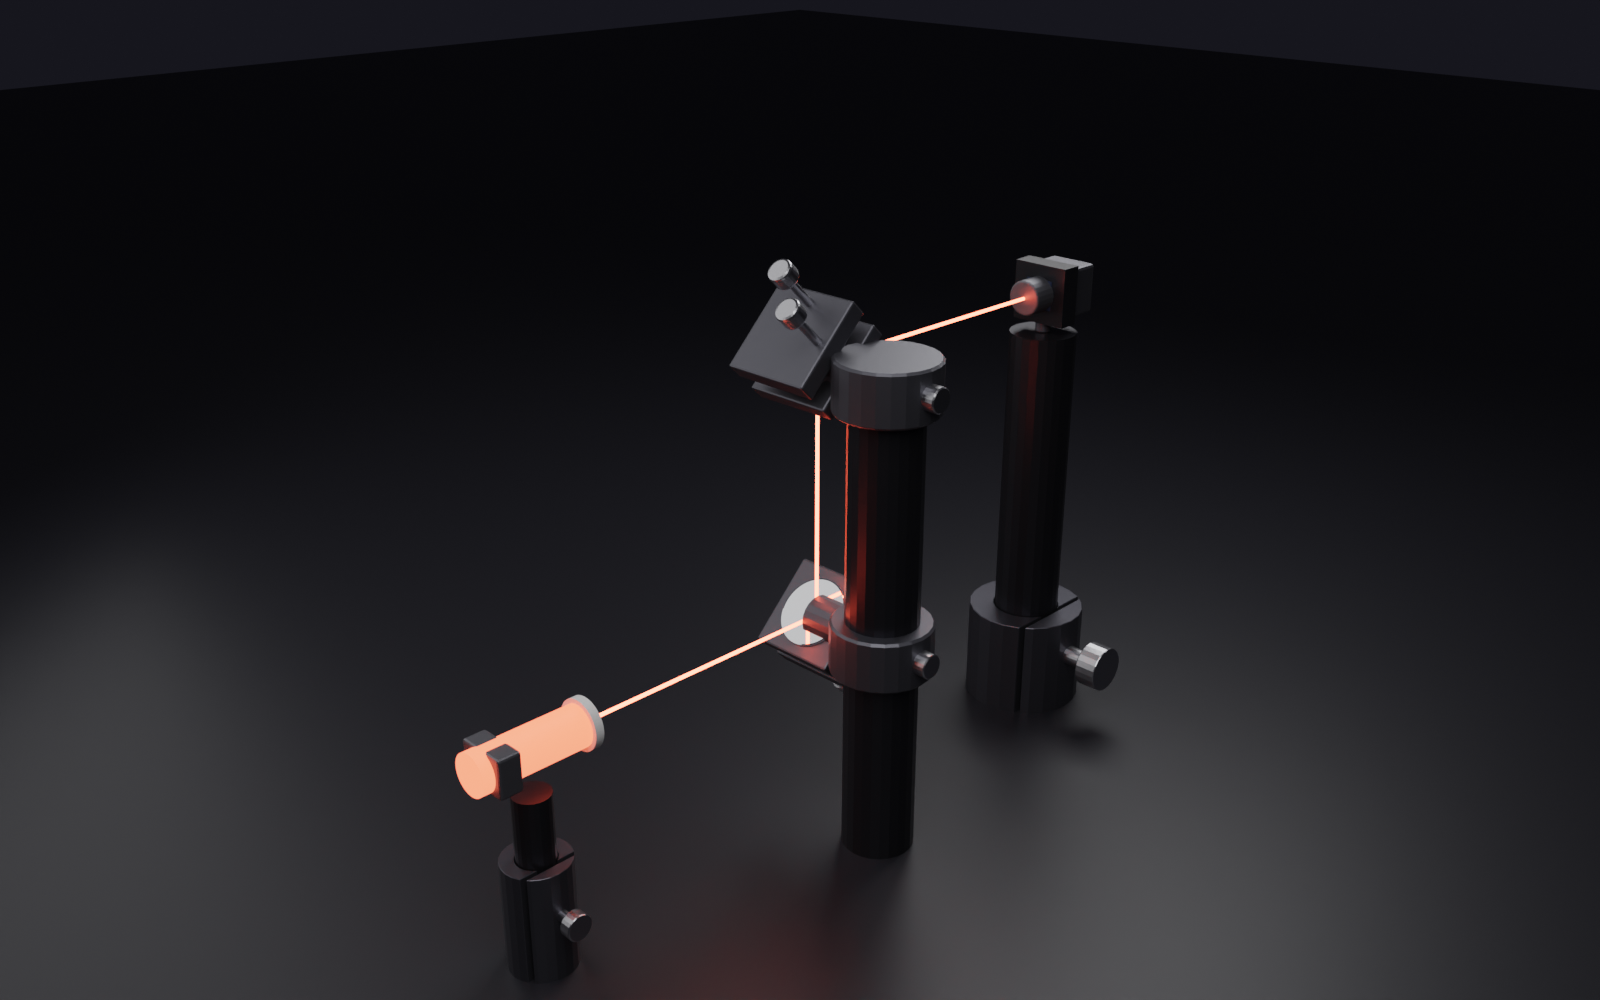
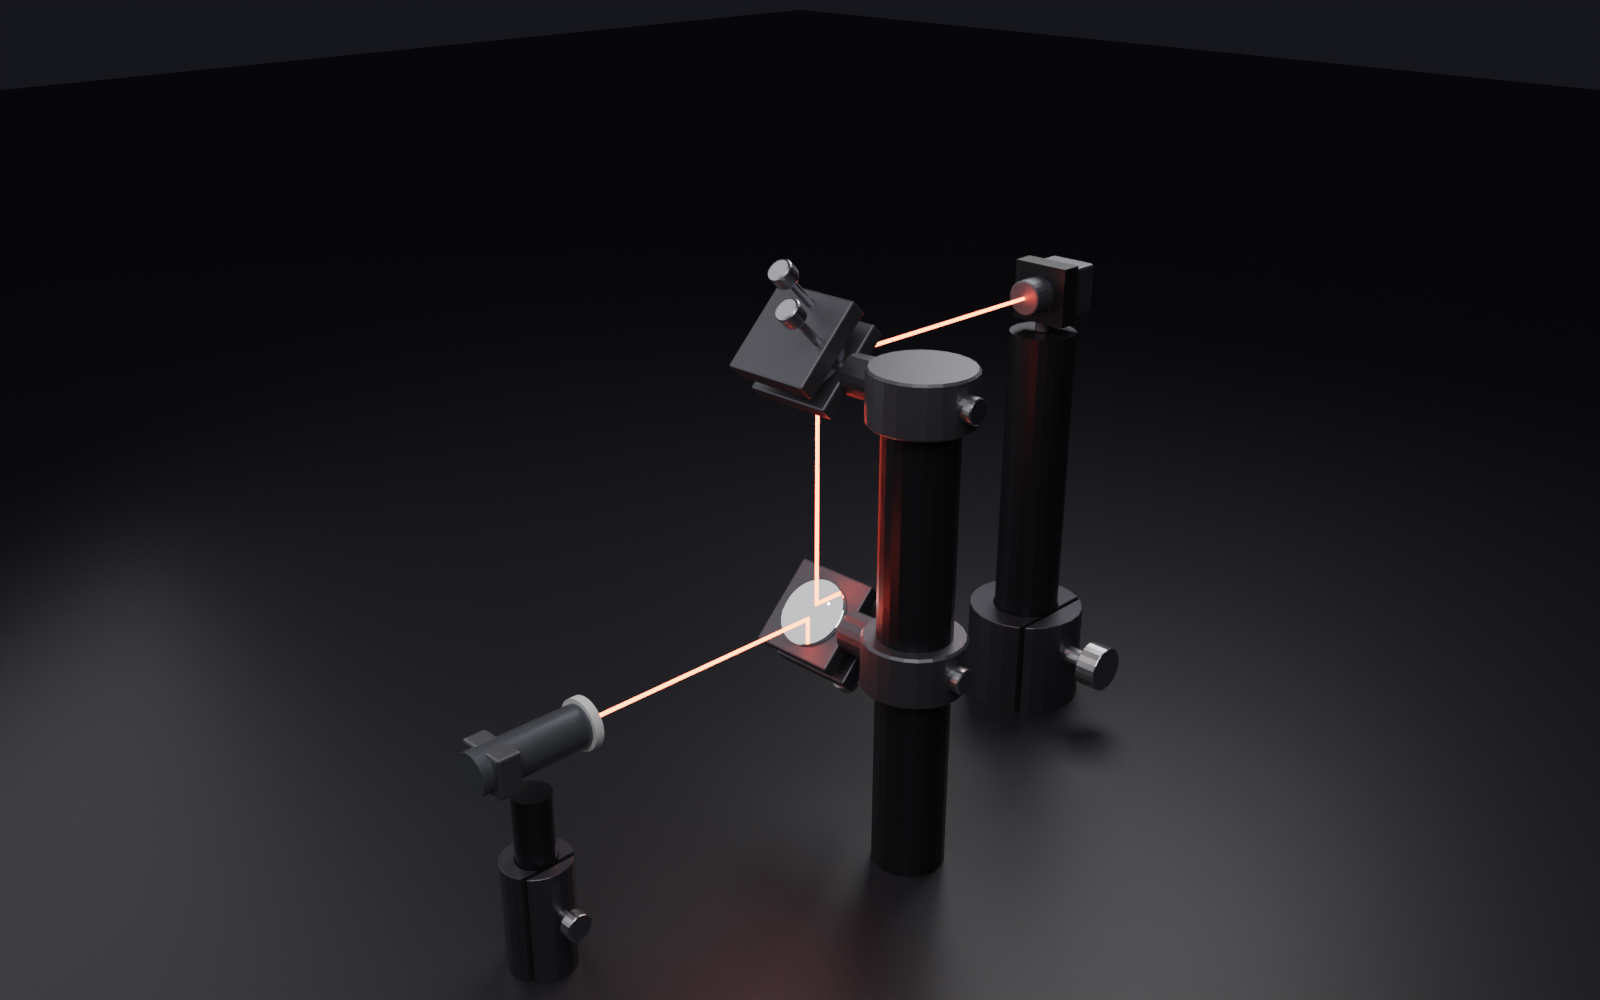
fix(render): laser heads (not glowing cans), distinct PBS coating, periscope no longer blocks its mirror (v0.8.2)
Owner feedback on the refreshed renders:
- Sources were uniformly glowing "sausages": now a dark anodized housing with only the front exit
  aperture emitting (slot 2 emit; SOURCE/FIBER_COLLIMATOR render descriptor -> dark housing).
- PBS was indistinguishable from a 50/50 BS: its polarizing coating is now a vivid mirror-like magenta
  diagonal vs the BS's subtle blue.
- Periscope clamp arm reached onto the mirror face / beam: it now stops a clear-aperture back-off
  BEHIND the mirror mount, and the pillar offset grew 30->44 mm, so neither the arm nor the post
  intrudes on the optic or the beam.

Trace unchanged (decoration + materials only), regression 164/164, extension validate OK. All README
renders regenerated.

Changed region(s): [[0.5, 0.341, 0.625, 0.961], [0.2812, 0.682, 0.375, 0.806]]

diff --git a/optical_alignment_sim/optomech.py b/optical_alignment_sim/optomech.py
@@ -111,8 +111,8 @@ POST_RADIUS_TALL = 12.5         # Ø25 mm (1") RS-series pillar — stiffer, for
 PILLAR_OVER_MM = 130.0          # above this post length, use the fatter Ø1" pillar (stiffness ∝ d⁴)
 VERTICAL_STACK_MM = 25.0        # optics this far apart in z at one xy => a vertical beam runs between
                                 # them; the pillar must be OFFSET so it doesn't sit in the beam path
-PILLAR_OFFSET = 30.0            # how far to push a vertical-fold (RS99 periscope) pillar off the beam
-                                # axis: Ø1" post radius + the post-clamp/mount reach back onto the beam
+PILLAR_OFFSET = 44.0            # how far to push a vertical-fold (RS99 periscope) pillar off the beam
+                                # axis: enough that the post + clamp clear the optic so neither blocks it
 BOARD_THICKNESS = 12.7          # 1/2" solid breadboard slab
 MOUNT_DROP = 15.0               # optical axis -> post top: the mount body bridges this gap
 HOLDER_H = 50.0                 # fixed post-holder body length (PH2-class); insertion varies, not the body
@@ -486,17 +486,21 @@ def _clamp_fork(tag, x, y, board_top_z, post_radius, coll, away):
     return 2
 
 
-def _periscope_clamp(tag, ox, oy, pr, tx, ty, z, coll):
+def _periscope_clamp(tag, ox, oy, pr, tx, ty, z, coll, optic_r=12.5):
     """One RS99 mirror unit: a 360deg post-clamp COLLAR gripping the Ø1" post at this mirror's height +
-    a short stout reach to the optic on the beam axis (replaces the thin spider-arm). A side lock knob
-    shows the clamp is fastened to the post."""
+    a short stout arm that reaches only to the BACK of the mirror mount (it stops ``optic_r`` short of
+    the optic centre, so it never crosses the beam at the mirror). A side lock knob shows the clamp is
+    fastened to the post."""
     col = _cyl(BENCH_PREFIX + "Clamp_" + tag, pr + 5.0, 18.0, (ox, oy, z), coll, "mount")
     _bevel(col, 0.8, 1)
     dx, dy = tx - ox, ty - oy
     d = (dx * dx + dy * dy) ** 0.5 or 1.0
-    ux, uy = dx / d, dy / d
-    _bevel(_rod(BENCH_PREFIX + "Arm_" + tag, (ox + ux * pr, oy + uy * pr, z), (tx, ty, z),
-                7.5, coll, "mount", seg=20), 0.6, 1)
+    ux, uy = dx / d, dy / d                                  # unit vector post -> mirror (toward beam)
+    start = (ox + ux * pr, oy + uy * pr, z)                 # collar/post edge on the beam side
+    back = optic_r + 3.0                                     # stop this far BEHIND the mirror centre
+    end = (tx - ux * back, ty - uy * back, z)               # mount back, never the optic face/beam
+    if (d - pr - back) > 1.0:                                # only if there is room for a real arm
+        _bevel(_rod(BENCH_PREFIX + "Arm_" + tag, start, end, 7.0, coll, "mount", seg=20), 0.6, 1)
     # side locking thumbscrew on the collar, on the far side from the beam (radial)
     axis = 'X' if abs(ux) >= abs(uy) else 'Y'
     s = -1.0 if (ux + uy) >= 0 else 1.0                      # point away from the beam
@@ -997,7 +1001,8 @@ def dress(scene, post_radius=POST_RADIUS):
             n += nf + 1
             for i, o in members:
                 op = o.matrix_world.translation
-                n += _periscope_clamp("%02d" % i, ox, oy, POST_RADIUS_TALL, op.x, op.y, op.z, coll)
+                opr = getattr(o.optics, "clear_aperture", 0.0) or 12.5
+                n += _periscope_clamp("%02d" % i, ox, oy, POST_RADIUS_TALL, op.x, op.y, op.z, coll, opr)
                 n += _build_mount(o, coll, i)
         else:
             h = max((pt.z - MOUNT_DROP) - board_top_z, 1.0)

diff --git a/optical_alignment_sim/elements_generic.py b/optical_alignment_sim/elements_generic.py
@@ -65,13 +65,15 @@ MATS = {
     "fiber":  lambda: _mat("OG_fiber", (0.40, 0.42, 0.48), metal=0.85, rough=0.30),
     # accent materials (slot 1+): keep their colour in realistic renders (only slot 0 is theme-swapped)
     "subglass":  lambda: _mat("OG_substrate", (0.28, 0.31, 0.37), metal=0.0, rough=0.22),
-    "coatbs":    lambda: _mat("OG_coat_bs", (0.55, 0.78, 1.00), metal=0.4, rough=0.08),
-    "coatpbs":   lambda: _mat("OG_coat_pbs", (0.72, 0.60, 0.98), metal=0.4, rough=0.08),
+    "coatbs":    lambda: _mat("OG_coat_bs", (0.55, 0.78, 1.00), metal=0.4, rough=0.10),
+    # a PBS shows a vivid, more mirror-like polarizing coating on the diagonal -> clearly NOT a 50/50 BS
+    "coatpbs":   lambda: _mat("OG_coat_pbs", (0.90, 0.28, 0.80), metal=0.7, rough=0.04),
     "coatdich":  lambda: _mat("OG_coat_dich", (0.95, 0.55, 0.85), metal=0.4, rough=0.08),
     "sensor":    lambda: _mat("OG_sensor", (0.02, 0.03, 0.07), metal=0.2, rough=0.45),
     "bezel":     lambda: _mat("OG_bezel", (0.48, 0.49, 0.54), metal=0.9, rough=0.30),
     "arrow":     lambda: _mat("OG_arrow", (0.90, 0.90, 0.92), metal=0.5, rough=0.30),
     "index":     lambda: _mat("OG_index", (0.92, 0.86, 0.45), metal=0.3, rough=0.30),
+    "laserbody": lambda: _mat("OG_laserbody", (0.12, 0.13, 0.15), metal=0.7, rough=0.35),
 }
 
 
@@ -381,13 +383,19 @@ def _etalon(name, radius, half_gap, coll):
 def source(name, loc, direction, coll=None, wavelength=632.8, length=40.0, radius=7.0):
     """A laser/source emitting along `direction` from its front face."""
     o = _disc(name, radius, length, coll)
-    o.data.materials.clear(); o.data.materials.append(MATS["laser"]())
-    # metal exit bezel ring at the front aperture, so it reads as a laser head, not a uniform glowing can
-    bz = _bored_disc(name + "_bezel", radius + 1.5, 3.0, radius * 0.55, coll)
+    # a real laser head: a dark anodized HOUSING (slot 0) with only the front APERTURE glowing -- not a
+    # uniformly glowing can. The emission stays on slot 2 (kept by the render pass; only slot 0 swaps).
+    o.data.materials.clear(); o.data.materials.append(MATS["laserbody"]())
+    bz = _bored_disc(name + "_bezel", radius + 1.5, 3.0, radius * 0.55, coll)   # metal exit bezel (slot 1)
     for v in bz.data.vertices:
         v.co.z += length * 0.5
     bz.data.materials.append(MATS["bezel"]())
     _join(o, bz)
+    ap = _disc(name + "_ap", radius * 0.48, 1.6, coll)                          # glowing exit aperture (slot 2)
+    for v in ap.data.vertices:
+        v.co.z += length * 0.5 + 0.3
+    ap.data.materials.append(MATS["laser"]())
+    _join(o, ap)
     _tag(o, 'SOURCE', is_source=True, wavelength=wavelength)
     _add_port(o, "OUT", 'OUT', (0, 0, length * 0.5), (0, 0, 1), radius)
     _set_matrix(o, Vector(loc), _z_to(direction))
@@ -581,6 +589,11 @@ def fiber_collimator(name, loc, direction, coll=None, wavelength=632.8, length=3
         v.co.z -= length * 0.5 + 4.5
     conn.data.materials.append(MATS["bezel"]())
     _join(o, conn)
+    ap = _disc(name + "_ap", radius * 0.45, 1.4, coll)                          # glowing output aperture
+    for v in ap.data.vertices:
+        v.co.z += length * 0.5 + 0.3
+    ap.data.materials.append(MATS["laser"]())
+    _join(o, ap)
     _tag(o, 'FIBER_COLLIMATOR', is_source=True, wavelength=wavelength)
     _add_port(o, "OUT", 'OUT', (0, 0, length * 0.5), (0, 0, 1), radius)
     _set_matrix(o, Vector(loc), _z_to(direction))

diff --git a/optical_alignment_sim/render.py b/optical_alignment_sim/render.py
@@ -108,8 +108,8 @@ RENDER_DESCRIPTORS = {
     'ISOLATOR':          ('dark',  (0.30, 0.30, 0.34)),
     'APERTURE':          ('dark',  (0.05, 0.05, 0.06)),
     'PINHOLE':           ('dark',  (0.05, 0.05, 0.06)),
-    'SOURCE':            ('emit',  (1.00, 0.10, 0.05)),
-    'FIBER_COLLIMATOR':  ('emit',  (1.00, 0.10, 0.05)),
+    'SOURCE':            ('dark',  (0.12, 0.13, 0.15)),
+    'FIBER_COLLIMATOR':  ('dark',  (0.13, 0.14, 0.16)),
 }
 
 

diff --git a/CHANGELOG.md b/CHANGELOG.md
@@ -4,6 +4,17 @@ All notable changes to the **Blender Optics Simulator** (`optical_alignment_sim`
 here. The format follows [Keep a Changelog](https://keepachangelog.com/), and the project uses
 semantic versioning.
 
+## [0.8.2]
+
+### Fixed — render polish (owner feedback)
+- **Laser / fibre sources** now read as real heads: a dark anodized **housing** with only the front
+  **exit aperture glowing** (slot 2), instead of a uniformly glowing can.
+- **PBS** is now clearly distinguishable from a 50/50 beamsplitter — its polarizing coating shows as a
+  vivid, mirror-like magenta diagonal vs. the BS's subtle blue.
+- **Periscope** no longer blocks its own mirror: the post-clamp arm stops **behind** the mirror mount
+  (a clear-aperture back-off) and the pillar offset grew (30→44 mm), so neither the arm nor the post
+  intrudes on the optic face or the beam. All README renders regenerated with these fixes.
+
 ## [0.8.1]
 
 ### Changed — periscope rebuilt as the real RS99 assembly
